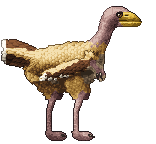
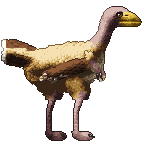
Feathered and flying dinosaurs keep their drawings' markings and darks
Plumage.Tone and MembraneSpec.Tone keep the drawing's broad light and
dark (a dark belly, a navy underside, the chocolate wingtips), so the
paintings are no paler than their guides; the troodon's black cap, the
ornithomimid's dark wing, the anzu's navy underside, the quetzal's wide
orange neck band and the dakota's deep orange are back. README: the
feather, membrane, plate and beak helpers; gen.py leaves the painted
species alone.

Changed region(s): [[0.0, 0.0278, 0.9231, 0.9722], [0.4615, 0.8333, 0.5897, 0.9722], [0.4615, 0.7778, 0.4872, 0.8056]]

diff --git a/internal/dinopaint/ptero.go b/internal/dinopaint/ptero.go
@@ -14,7 +14,7 @@ package dinopaint
 func init() { Register(pteroFly()) }
 
 var (
-	pteroMembrane = []uint32{0x1e0e0a, 0x2e160e, 0x44200f, 0x5c2c14, 0x76391a, 0x904a22, 0xa85e2c, 0xc07438}
+	pteroMembrane = []uint32{0x1c0e0a, 0x2a150e, 0x3c1f12, 0x512a17, 0x68361d, 0x804424, 0x96532c, 0xac6434}
 	pteroGlow     = []uint32{0x5a2410, 0x82361a, 0xa84c22, 0xc86a2e, 0xe08a40, 0xf0aa5c, 0xf8c87e, 0xfde0a8}
 	pteroBone     = []uint32{0x4a3a26, 0x6e5838, 0x947a50, 0xb49a6a, 0xcab284, 0xdccaa0, 0xece0c0, 0xf8f0dc}
 	pteroCream    = []uint32{0x4e4234, 0x706048, 0x92805e, 0xb4a07a, 0xd0be98, 0xe6d8b8, 0xf4ecd6, 0xfffaee}
@@ -74,20 +74,20 @@ func pteroFly() *Species {
 
 func pteroFlyDetails(farBone, nearBone []float64, farWing, nearWing, crest SDF) func(p *Painter) {
 	return func(p *Painter) {
-		p.Plumage(&Plumage{Seed: 23, Edge: 0.35, Tracts: []Tract{
+		p.Plumage(&Plumage{Seed: 23, Edge: 0.35, Tone: 0.7, Tracts: []Tract{
 			// The furred body: fine pycnofibres from the nape back.
 			{Name: "fur", Region: Poly(3, 24.5, 24.6, 24.6, 24.8, 30.2, 3, 30.6), Parts: []string{"body"},
 				Flow: Along(26, 27.2, 18, 27.3, 9, 27.5, 2, 27.5), Len: 1.2, Wid: 0.55, Hair: true, Relief: 0.8, Fluff: 0.3, Snap: true},
 		}})
 		wing := func(region SDF, bone []float64, fan Coords, free SDF) {
 			p.Membrane(MembraneSpec{Region: region, Mat: []string{"membrane"},
-				Fibres: fan, Gap: 1.1, Fibre: 0.13, Flat: 0.55, Distal: 0.16, DistalFrom: 11, DistalTo: 21,
+				Fibres: fan, Gap: 1.1, Fibre: 0.13, Flat: 0.55, Tone: 0.8, Distal: 0.16, DistalFrom: 11, DistalTo: 21,
 				Camber: Path(pts3(bone, 0)...), Glow: 0.6, GlowW: 1.7, GlowRamp: pteroGlow, Free: free,
 				Bones: []Bone{{Pts: bone, R: 0.95, R1: 0.5, Ramp: pteroBone}}, Seed: 7})
 		}
 		wing(farWing, farBone, Fan(21.5, 23, 10, -1.78), Poly(-1, -1, 13, -1, 21, 12, 21, 21, -1, 22))
 		wing(nearWing, nearBone, Fan(21.5, 33, 10, 1.78), Poly(-1, 59, 13, 59, 21, 44, 21, 34, -1, 33))
-		p.Plane(PlaneSpec{Region: crest, Mat: []string{"crest"}, Tilt: 1.1, Angle: 0.08, Gap: 0.9, Lines: 0.06,
+		p.Plane(PlaneSpec{Region: crest, Mat: []string{"crest"}, Tilt: 1.6, Angle: 0.08, Gap: 0.9, Lines: 0.06,
 			FromX: 26.5, FromY: 23.5, Fall: 0.03, Seed: 9})
 		p.Beak(BeakSpec{Mat: "beak", Ridge: []float64{28.8, 26.7, 34, 26.8, 40.6, 28.0}, Mouth: []float64{29, 28.05, 34.5, 28.15, 40.4, 28.5},
 			Gloss: 0.2, LowerShadow: 0.05, Lower: "beakLow", GrainSeed: 7})
@@ -168,13 +168,13 @@ func quetzalFly() *Species {
 		},
 		Skin: Skin{Flank: 1.0, Back: 1.2, Belly: 0.9, BackDepth: 1, BellyDepth: 1, Relief: 0.5, Seed: 59},
 		Details: func(p *Painter) {
-			p.Plumage(&Plumage{Seed: 29, Edge: 0.35, Tracts: []Tract{
+			p.Plumage(&Plumage{Seed: 29, Edge: 0.35, Tone: 0.7, Tracts: []Tract{
 				{Name: "fur", Region: Poly(8, 40.4, 49.6, 41, 50, 48.6, 8, 49.6), Parts: []string{"body"},
 					Flow: Along(50, 44.6, 40, 44.6, 30, 44.8, 20, 45, 9, 45.5), Len: 1.4, Wid: 0.6, Hair: true, Relief: 0.8, Fluff: 0.3, Snap: true},
 			}})
 			wing := func(region SDF, bone []float64, fan Coords, free SDF) {
 				p.Membrane(MembraneSpec{Region: region, Mat: []string{"wing"},
-					Fibres: fan, Gap: 1.25, Fibre: 0.12, Flat: 0.55, Distal: 0.12, DistalFrom: 18, DistalTo: 36,
+					Fibres: fan, Gap: 1.25, Fibre: 0.12, Flat: 0.55, Tone: 0.8, Distal: 0.12, DistalFrom: 18, DistalTo: 36,
 					Camber: Path(pts3(bone, 0)...), Glow: 0.5, GlowW: 2.2, GlowRamp: quetzalGlow, Free: free,
 					Bones: []Bone{{Pts: bone, R: 1.35, R1: 0.5, Ramp: pteroBone}}, Seed: 9})
 			}
@@ -248,19 +248,19 @@ func pteroPerch() *Species {
 			{Pts: []float64{15, 19, 18, 25, 21.5, 30.5}, N: 2, DX: 1.1, DY: -0.6, Depth: 0.8},
 		},
 		Details: func(p *Painter) {
-			p.Plumage(&Plumage{Seed: 31, Edge: 0.35, Tracts: []Tract{
+			p.Plumage(&Plumage{Seed: 31, Edge: 0.35, Tone: 0.8, Tracts: []Tract{
 				{Name: "fur", Region: Poly(26, 13, 37.5, 9.5, 39, 14, 37.5, 26, 34, 31, 26, 31), Parts: []string{"body"},
 					Flow: Along(37.5, 10.5, 34.5, 16, 31.5, 21, 29.5, 26, 28.5, 31), Len: 1.3, Wid: 0.6, Hair: true, Relief: 0.8, Fluff: 0.3, Snap: true},
 			}})
 			p.Membrane(MembraneSpec{Region: wing, Mat: []string{"membrane", "dark"},
-				Fibres: Along(finger...), Gap: 0.9, Fibre: 0.05, Flat: 0.15,
+				Fibres: Along(finger...), Gap: 0.9, Fibre: 0.05, Flat: 0.15, Tone: 0.6,
 				Camber: Path(pts3(finger, 0)...), Glow: 0.5, GlowW: 1.4, GlowRamp: pteroGlow,
 				Free: Poly(10, 8, 18, 9, 22, 30, 12, 34),
 				Bones: []Bone{
 					{Pts: finger, R: 0.8, R1: 0.45, Ramp: pteroBone},
 					{Pts: arm, R: 1.2, R1: 0.95, Ramp: pteroBone, Shade: -0.05},
 				}, Seed: 13})
-			p.Plane(PlaneSpec{Region: crest, Mat: []string{"crest"}, Tilt: 0.9, Angle: -0.72, Gap: 1.0, Lines: 0.06,
+			p.Plane(PlaneSpec{Region: crest, Mat: []string{"crest"}, Tilt: 1.6, Angle: -0.72, Gap: 1.0, Lines: 0.06,
 				FromX: 37.5, FromY: 8.5, Fall: 0.05, Seed: 15})
 			p.Beak(BeakSpec{Mat: "beak", Ridge: []float64{41.8, 8.8, 46, 10.3, 51, 11.9, 55.4, 14.2}, Mouth: []float64{41.6, 13.4, 47, 14.2, 54.4, 14.6},
 				Gloss: 0.22, LowerShadow: 0.05, Lower: "beakLow", GrainSeed: 11})
@@ -315,7 +315,7 @@ func quetzal() *Species {
 			{Name: "cream", Seeds: []uint32{0xfbf3df, 0xe9dabb, 0xd8caa8, 0xcdb594, 0xb8a888, 0xb0aa9c, 0xa39e91}, Ramp: pteroCream},
 			{Name: "taupe", Seeds: []uint32{0xa6896a, 0x978d76, 0x978e7a, 0x94846a, 0x907f68, 0x8c8370, 0x857660, 0x81765f, 0x7b6d59, 0x6e604c, 0x685c4a,
 				0x605645, 0x5d5243, 0x564c3e, 0x4d4335, 0x4a4034, 0xa39983, 0x7a6044, 0x4e3c2a, 0x4f3e2c, 0x493a29}, Ramp: quetzalTaupe},
-			{Name: "orange", Seeds: []uint32{0xcf873c, 0xae6228, 0x915e2a, 0x875827, 0x86451e}, Ramp: quetzalOrng},
+			{Name: "orange", Seeds: []uint32{0xcf873c, 0xae6228, 0x915e2a, 0x875827, 0x86451e}, Ramp: quetzalOrng, Bias: 0.12},
 			{Name: "red", Seeds: []uint32{0xe85236, 0xf88a5c, 0xc22a22, 0xc3452d, 0xa3231d, 0x90181a, 0x791416, 0x5e0e12, 0x4f0c0f, 0xd0744d}, Ramp: quetzalRed},
 			{Name: "crown", Seeds: []uint32{0x34323c, 0x4c4a56}, Ramp: quetzalSlate},
 			{Name: "beak", Seeds: []uint32{0xfbe694, 0xfff0a0, 0xeecb5a, 0xd2a436, 0xa87a22, 0x7a5216}, Ramp: pteroBeak, Relief: 0.3, Region: beak, Over: true,
@@ -350,12 +350,12 @@ func quetzal() *Species {
 			{Pts: []float64{50.5, 88, 55.5, 88}, N: 4, DY: 3, Depth: 0.6},
 		},
 		Details: func(p *Painter) {
-			p.Plumage(&Plumage{Seed: 37, Edge: 0.35, Tracts: []Tract{
+			p.Plumage(&Plumage{Seed: 37, Edge: 0.35, Tone: 0.8, Tracts: []Tract{
 				{Name: "fur", Region: Poly(36, 55, 46, 50, 52, 30, 58.5, 17, 63, 19, 60, 34, 58, 52, 61, 62, 56, 70, 36, 70), Parts: []string{"body"},
 					Flow: Along(61.5, 17, 56, 30, 51.5, 42, 47.5, 55, 42, 64, 36, 68), Len: 1.5, Wid: 0.65, Hair: true, Relief: 0.8, Fluff: 0.3, Snap: true},
 			}})
 			p.Membrane(MembraneSpec{Region: wing, Mat: []string{"wing"},
-				Fibres: Along(48, 95, 41, 76, 34, 59, 30.4, 46), Gap: 1.0, Fibre: 0.05, Flat: 0.2,
+				Fibres: Along(48, 95, 41, 76, 34, 59, 30.4, 46), Gap: 1.0, Fibre: 0.05, Flat: 0.2, Tone: 0.6,
 				Glow: 0.45, GlowW: 1.6, GlowRamp: quetzalGlow, Free: Poly(20, 40, 33, 40, 46, 96, 20, 96),
 				Seed: 17})
 			p.Plane(PlaneSpec{Region: crest, Mat: []string{"red", "crown"}, Tilt: 0.7, Angle: -0.5, Gap: 1.2, Lines: 0.06,

diff --git a/internal/dinopaint/feather.go b/internal/dinopaint/feather.go
@@ -56,6 +56,7 @@ type Plumage struct {
 	Seed   uint32
 	Shadow float64 // how dark a tract shades what lies under it (0: 0.13)
 	Edge   float64 // how dark the soft outline of the feathers is (0: 0.3)
+	Tone   float64 // how much of the drawing's own light and dark is kept, broadly: a dark belly, a pale back (0: none)
 }
 
 // feather is one feather of a tract, made the first time a pixel asks.
@@ -487,6 +488,9 @@ func (p *Painter) Plumage(pl *Plumage) {
 		}
 		p.Val[i] += q.light(&o)
 	}
+	if pl.Tone != 0 {
+		q.guideTone(pl.Tone)
+	}
 	// Each tract shades what lies under it, down and away from the light.
 	shadow := pl.Shadow
 	if shadow == 0 {
@@ -629,4 +633,57 @@ func (q *plumage) tipMarked(f *feather, tr *Tract) bool {
 		}
 	}
 	return f.tip == 1
+}
+
+// guideTone lightens and darkens the painting as the drawing is, broadly:
+// each pixel by how much lighter or darker the drawing is there than its
+// material's colours are on average, so the drawing's dark undersides and
+// pale backs, and the strength of its darks, are kept.
+func (q *plumage) guideTone(k float64) {
+	p := q.p
+	for i, d := range p.toneField() {
+		p.Val[i] += k * d
+	}
+}
+
+// toneField is, for each pixel, how much lighter (+) or darker (-) the
+// drawing is there, broadly, than its material's colours on average, in
+// steps of light; the lighter half counts half.
+func (p *Painter) toneField() []float64 {
+	out := make([]float64, p.W*p.H)
+	l, w := NewField(p.GW, p.GH), NewField(p.GW, p.GH)
+	for i, c := range p.Guide {
+		if p.GSolid[i] && lum(c) >= p.Sp.Ink {
+			l.V[i], w.V[i] = lum(c), 1
+		}
+	}
+	lb, wb := l.Blur(0.8), w.Blur(0.8)
+	at := func(i int) (float64, bool) {
+		x, y := G(i%p.W, i/p.W)
+		if s := wb.Sample(x, y); s > 0.05 {
+			return lb.Sample(x, y) / s, true
+		}
+		return 0, false
+	}
+	nm := len(p.Sp.Materials)
+	sum, cnt := make([]float64, nm), make([]float64, nm)
+	for i, in := range p.In {
+		if v, ok := at(i); in && ok {
+			sum[p.Mat[i]] += v
+			cnt[p.Mat[i]]++
+		}
+	}
+	for i, in := range p.In {
+		v, ok := at(i)
+		if !in || !ok || cnt[p.Mat[i]] == 0 {
+			continue
+		}
+		m := p.Mat[i]
+		d := clamp((v-sum[m]/cnt[m])/90, -0.4, 0.4)
+		if d > 0 {
+			d *= 0.5 // the drawing's darks matter most; the form already lights the rest
+		}
+		out[i] = d
+	}
+	return out
 }

diff --git a/internal/dinopaint/anzu.go b/internal/dinopaint/anzu.go
@@ -47,8 +47,11 @@ func anzu() *Species {
 		GuideDetail: 0.35,
 		Ink:         24,
 		Materials: []Material{
-			{Name: "teal", Seeds: []uint32{0x4c8c96, 0x2f6074, 0x21425a, 0x182c44, 0x111c30, 0x1a3540, 0x2a4d52, 0x426e81, 0x5c969f, 0x355369, 0x1d2e3a, 0x243d47},
+			{Name: "teal", Seeds: []uint32{0x4c8c96, 0x2f6074, 0x21425a, 0x1a3540, 0x2a4d52, 0x426e81, 0x5c969f, 0x355369, 0x243d47},
 				Ramp: []uint32{0x0c121c, 0x14202e, 0x1c3040, 0x244256, 0x2e566c, 0x3a6c80, 0x4c8694, 0x66a2aa}},
+			// The navy of the underside and the thighs, as dark as the drawing has it.
+			{Name: "navy", Seeds: []uint32{0x182c44, 0x111c30, 0x1d2e3a, 0x0b0f1c},
+				Ramp: []uint32{0x080c14, 0x0c121e, 0x101a2a, 0x162236, 0x1c2c44, 0x243852, 0x2e4662, 0x3a5672}},
 			{Name: "cyan", Seeds: []uint32{0x8cdce0, 0x4cb2c8, 0x2c86a4, 0x1c5a7a, 0x7cb8b4},
 				Ramp: []uint32{0x0e2a3a, 0x164058, 0x1e5a76, 0x2a7a96, 0x3c9ab2, 0x58b6c8, 0x7ccedc, 0xa6e4ec}},
 			{Name: "purple", Seeds: []uint32{0x7a6ad8, 0x5644ba, 0x3c82e2, 0x2658c2, 0x1a3a92, 0x12245e, 0x231d31},
@@ -111,7 +114,7 @@ func anzu() *Species {
 }
 
 func anzuPlumage() *Plumage {
-	return &Plumage{Seed: 17, Edge: 0.4, Tracts: []Tract{
+	return &Plumage{Seed: 17, Edge: 0.4, Tone: 0.85, Tracts: []Tract{
 		{Name: "farThigh", Region: Poly(11, 30, 23, 30, 23, 41, 11, 41), Parts: []string{"farLeg"},
 			Flow: Along(18, 31, 17.5, 40, 16, 45), Len: 2.4, Wid: 1.7, Fluff: 0.5, Snap: true},
 		{Name: "body", Region: Poly(11, 19.5, 34, 19.5, 36.5, 24, 36, 31, 30, 35, 13, 34), Parts: []string{"body", "wing"},

diff --git a/internal/dinopaint/troodon.go b/internal/dinopaint/troodon.go
@@ -66,6 +66,9 @@ func troodon() *Species {
 				Ramp: []uint32{0x4e4440, 0x6e6458, 0x948a7a, 0xb4aa96, 0xcec6b0, 0xe2dcc8, 0xf0ecdc, 0xfffcf0}},
 			{Name: "eye", Seeds: []uint32{0xffb71e, 0xffdd62},
 				Ramp: []uint32{0x5a2a04, 0x8e4a08, 0xc87a12, 0xeea226, 0xf2c64c, 0xf6dc86, 0xf8e6a4, 0xfaf0c4}},
+			// The black cap of the head, as the drawing has it.
+			{Name: "cap", Ramp: []uint32{0x09080a, 0x0f0d0f, 0x161314, 0x1e1a1a, 0x272221, 0x312b29, 0x3c3532, 0x48403c},
+				Region: Poly(30.4, 1.6, 36.6, 1.6, 38.6, 2.6, 37.4, 3.9, 36.6, 7.4, 34.6, 9.4, 31.4, 9.4, 30.6, 6)},
 			{Name: "gum", Seeds: []uint32{0x2a1012},
 				Ramp: []uint32{0x14070a, 0x1e0a0d, 0x2a1012, 0x381618, 0x461c1e, 0x542226, 0x62282c, 0x703034}},
 		},
@@ -112,7 +115,7 @@ func troodon() *Species {
 }
 
 func troodonPlumage() *Plumage {
-	return &Plumage{Seed: 11, Edge: 0.4, Tracts: []Tract{
+	return &Plumage{Seed: 11, Edge: 0.4, Tone: 0.7, Tracts: []Tract{
 		{Name: "farThigh", Region: Poly(15, 17, 23, 17, 23, 26.4, 15, 26.4), Parts: []string{"farLeg"},
 			Flow: Along(20, 19, 20, 23.5, 15.5, 27.5), Len: 1.9, Wid: 1.35, Fluff: 0.4, Snap: true},
 		{Name: "body", Region: Union(Poly(12, 9, 31, 9, 35.5, 9.5, 35.5, 16, 31, 21, 15, 19), Ellipse(32.8, 6, 2.2, 3.6, 0.3)),

diff --git a/internal/dinopaint/ornitho.go b/internal/dinopaint/ornitho.go
@@ -103,7 +103,7 @@ func ornitho() *Species {
 }
 
 func ornithoPlumage() *Plumage {
-	return &Plumage{Seed: 13, Edge: 0.4, Tracts: []Tract{
+	return &Plumage{Seed: 13, Edge: 0.4, Tone: 0.7, Tracts: []Tract{
 		{Name: "farThigh", Region: Poly(11, 23, 23, 23, 23, 31.4, 11, 31.4), Parts: []string{"farLeg"},
 			Flow: Along(18, 26, 19.5, 32.5, 16, 37.5), Len: 2.2, Wid: 1.6, Fluff: 0.45, Snap: true},
 		{Name: "body", Region: Poly(8, 12, 31.5, 12.5, 33.5, 17, 31, 25, 10, 27, 7, 20), Parts: []string{"body", "wing"},
@@ -117,7 +117,7 @@ func ornithoPlumage() *Plumage {
 			Flow: Along(27, 26, 28.5, 32.5, 25, 37.5), Len: 2.2, Wid: 1.6, Fluff: 0.45, Snap: true},
 		{Name: "wing", Region: Poly(30.4, 19, 31.4, 22.6, 25, 25.2, 13.4, 27.2, 14, 24, 21, 21.2, 27, 19.4), Parts: []string{"wing"},
 			Flow: Along(31, 20.6, 26, 22.2, 20, 24.2, 14, 25.6), Len: 4.6, Wid: 1.4, Rows: 0.34, Tip: 0.55, Shaft: 0.1, Fluff: 0.35,
-			TipMat: "white", TipLen: 0.25, TipGuide: true},
+			Mat: "brown", TipMat: "white", TipLen: 0.25, TipGuide: true},
 		{Name: "arm", Region: Poly(28.8, 17.2, 33.4, 19.4, 34.2, 25, 31.6, 25.2, 29.4, 21), Parts: []string{"wing"},
 			Flow: Along(29.6, 17.6, 31.4, 21.4, 33, 24.8), Len: 2.0, Wid: 1.4, Fluff: 0.3, Snap: true},
 	}}

diff --git a/internal/dinopaint/dakota.go b/internal/dinopaint/dakota.go
@@ -49,7 +49,7 @@ func dakota() *Species {
 		Ink:         37,
 		Materials: []Material{
 			{Name: "orange", Seeds: []uint32{0xe6aa5e, 0xcb843c, 0xad6229, 0x88461d, 0x602e15, 0x7a5a3c},
-				Ramp: []uint32{0x2c1512, 0x48210f, 0x6c3214, 0x904a1c, 0xb06226, 0xcb7e34, 0xe29c4c, 0xf3bd70}},
+				Ramp: []uint32{0x2c1512, 0x48210f, 0x6c3214, 0x904a1c, 0xac5e24, 0xc4742e, 0xd88a3c, 0xe8a454}},
 			{Name: "bar", Seeds: []uint32{0x5e483a},
 				Ramp: []uint32{0x181010, 0x241814, 0x32211a, 0x412b20, 0x513628, 0x634332, 0x77523c, 0x8b6248}, Smooth: 0.6, Bias: 0.1},
 			{Name: "dark", Seeds: []uint32{0x433228, 0x2a1f1a},
@@ -109,7 +109,7 @@ func dakota() *Species {
 }
 
 func dakotaPlumage() *Plumage {
-	return &Plumage{Seed: 5, Edge: 0.45, Tracts: []Tract{
+	return &Plumage{Seed: 5, Edge: 0.45, Tone: 0.7, Tracts: []Tract{
 		// The far thigh.
 		{Name: "farThigh", Region: Poly(10, 18, 22, 18, 22, 28.2, 10, 28.2), Parts: []string{"farLeg"},
 			Flow: Along(15, 19, 17.5, 24, 15.5, 28.5), Len: 2.5, Wid: 1.7, Fluff: 0.5, Snap: true},

diff --git a/internal/dinopaint/membrane.go b/internal/dinopaint/membrane.go
@@ -37,7 +37,8 @@ type MembraneSpec struct {
 	// DistalTo along the fibres (s).
 	Distal, DistalFrom, DistalTo float64
 
-	Bones []Bone // what reads through it, painted over it
+	Tone  float64 // how much of the drawing's broad light and dark is kept (0: none)
+	Bones []Bone  // what reads through it, painted over it
 	Seed  uint32
 }
 
@@ -81,6 +82,10 @@ func (p *Painter) Membrane(m MembraneSpec) {
 	}
 	flatV := LightOn(norm3(0, 0, 1))
 	detail := p.guideDetail()
+	var tone []float64
+	if m.Tone != 0 {
+		tone = p.toneField()
+	}
 	out := append([]color.NRGBA(nil), p.Out...)
 	for py := 0; py < p.H; py++ {
 		for px := 0; px < p.W; px++ {
@@ -101,6 +106,9 @@ func (p *Painter) Membrane(m MembraneSpec) {
 			v := lerp(p.Val[i], flatV, flat)
 			if detail != nil {
 				v += flat * p.Sp.GuideDetail * detail.Sample(x, y) // the drawing's mottling, kept
+			}
+			if tone != nil {
+				v += m.Tone * tone[i]
 			}
 			if m.Camber != nil {
 				// Bellied out behind the leading edge, then falling to the trailing one.

diff --git a/internal/dinopaint/achero.go b/internal/dinopaint/achero.go
@@ -102,7 +102,7 @@ func achero() *Species {
 }
 
 func acheroPlumage() *Plumage {
-	return &Plumage{Seed: 7, Edge: 0.45, Tracts: []Tract{
+	return &Plumage{Seed: 7, Edge: 0.45, Tone: 0.7, Tracts: []Tract{
 		{Name: "farThigh", Region: Poly(8, 13, 16.5, 13, 16.5, 20.4, 8, 20.4), Parts: []string{"farLeg"},
 			Flow: Along(12.5, 14, 13.5, 18, 11.5, 21), Len: 1.9, Wid: 1.35, Fluff: 0.4, Snap: true},
 		{Name: "body", Region: Union(Poly(6, 3.5, 23, 3.5, 27, 6.5, 27, 10, 24, 16, 6, 17), Ellipse(25, 3.6, 1.8, 2.2, 0)),

diff --git a/internal/client/dinos/hd/gen.py b/internal/client/dinos/hd/gen.py
@@ -24,6 +24,7 @@ HERE = os.path.dirname(os.path.abspath(__file__))
 # Painted by hand-written descriptions in Go instead (internal/dinopaint,
 # cmd/dinopaint; see README.md here): this script leaves them alone.
 PAINTED = {'rex', 'trike'}
+PAINTED |= {'dakota', 'achero', 'troodon', 'ornitho', 'anzu', 'ptero_fly', 'ptero_perch', 'quetzal', 'quetzal_fly'}
 
 CFG = {
     'rex':         dict(skin='scale', cell=(5, 4), eyes=[(87, 20, 88, 20)], slit=True, teeth=(82, 31, 105, 34)),

diff --git a/internal/client/dinos/hd/README.md b/internal/client/dinos/hd/README.md
@@ -62,3 +62,31 @@ guide (`dinos/<name>.png`): open it enlarged with a grid to measure.
 
 A species takes about an hour or two: measuring the parts and muscles is
 most of it, then a few rounds of looking at the painting and the poses.
+
+## Feathers and wings
+
+The feathered hunters (`dakota`, `achero`, `troodon`), `ornitho`, `anzu`
+and the pterosaurs (`ptero_fly`, `ptero_perch`, `quetzal`, `quetzal_fly`)
+are painted too, with helpers called first thing in their `Details`:
+
+- **`Plumage`** (`feather.go`): tracts of feathers, back to front, each
+  laid along a flow (`coords.go`: `Along` a line, `Away` from one, a `Fan`
+  from a point, a `Dir`). The feathers lie in rows, each over the root of
+  the ones behind, so what shows is a scallop: lit over its shaft
+  (`Shaft`, `Camber`), shading the feathers under it, the outline made of
+  their tips (`Fluff`; also at the picture's edge, which a tail may touch).
+  `Snap` lays the drawing's mottling feather by feather; `TipMat` with
+  `TipGuide` turns the drawing's pale marks into pale feather tips
+  (`TipElse`: what the marks become elsewhere). `Hair` makes fine strands
+  instead: down, pycnofibres. What no feather covers keeps its scales.
+- **`Membrane`** (`membrane.go`): a wing's skin, nearly flat, bellied
+  behind the leading edge (`Camber`), its fibres fanning out (`Fibres`),
+  darker towards the tip (`Distal`), light through its thin free edge
+  (`Glow`, `GlowRamp`, `Free`), and `Bones` read through it as lit tubes.
+- **`Plane`** (`plane.go`): a crest or casque lit as a flat plate with a
+  bevelled rim and growth lines.
+- **`Beak`** (`beak.go`): keratin over a beak: a gloss under the ridge,
+  grain, the mouth's line, the lower beak (`Lower`), a nostril.
+
+The night hunter's eye is painted in the drawing's two ambers only, which
+the game finds to draw it again in every pose (`troodon.go`).
